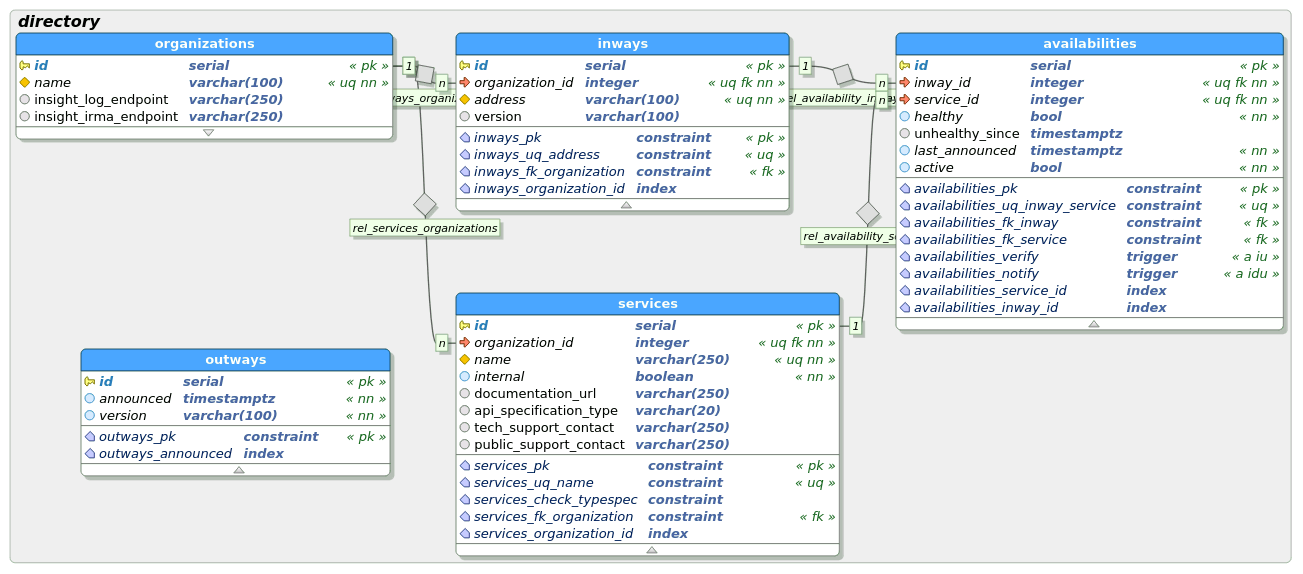
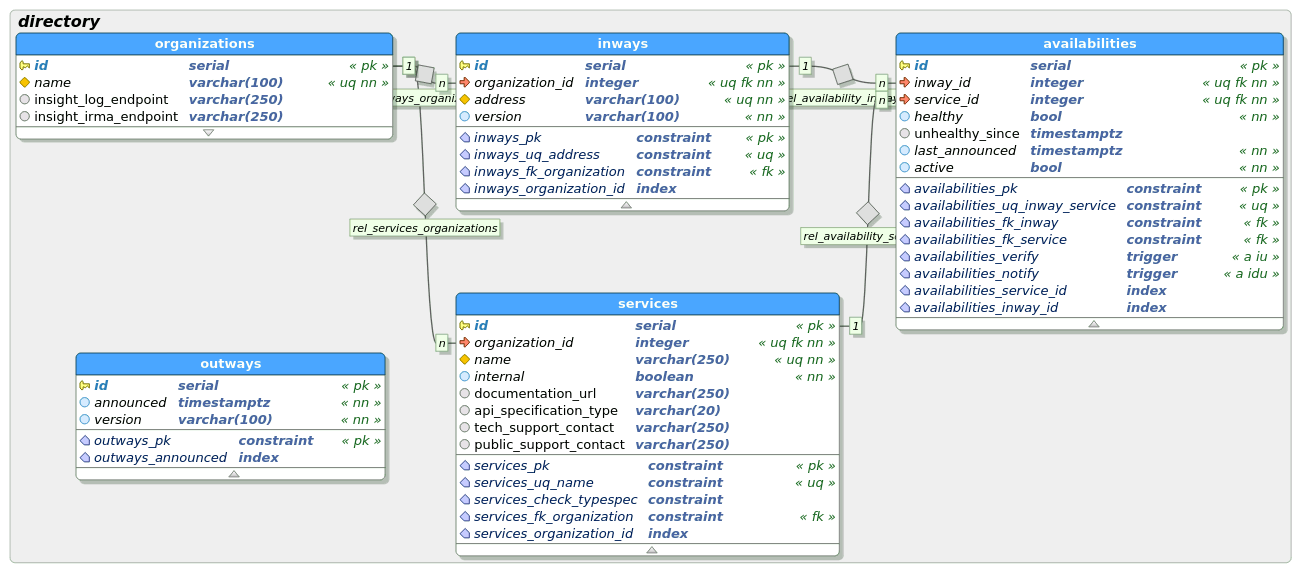
feature(directory-db): make inway.version not null with as default value unknown

Changed region(s): [[0.0307, 0.5923, 0.307, 0.8589], [0.3684, 0.1777, 0.3991, 0.2073]]

diff --git a/directory-db/dbversion/version.go b/directory-db/dbversion/version.go
@@ -5,4 +5,4 @@ package dbversion
 
 // LatestDirectoryDBVersion is the latest version for the db migrations.
 // Components that use the database should verify using the migrate package their
-const LatestDirectoryDBVersion = 11
+const LatestDirectoryDBVersion = 12
